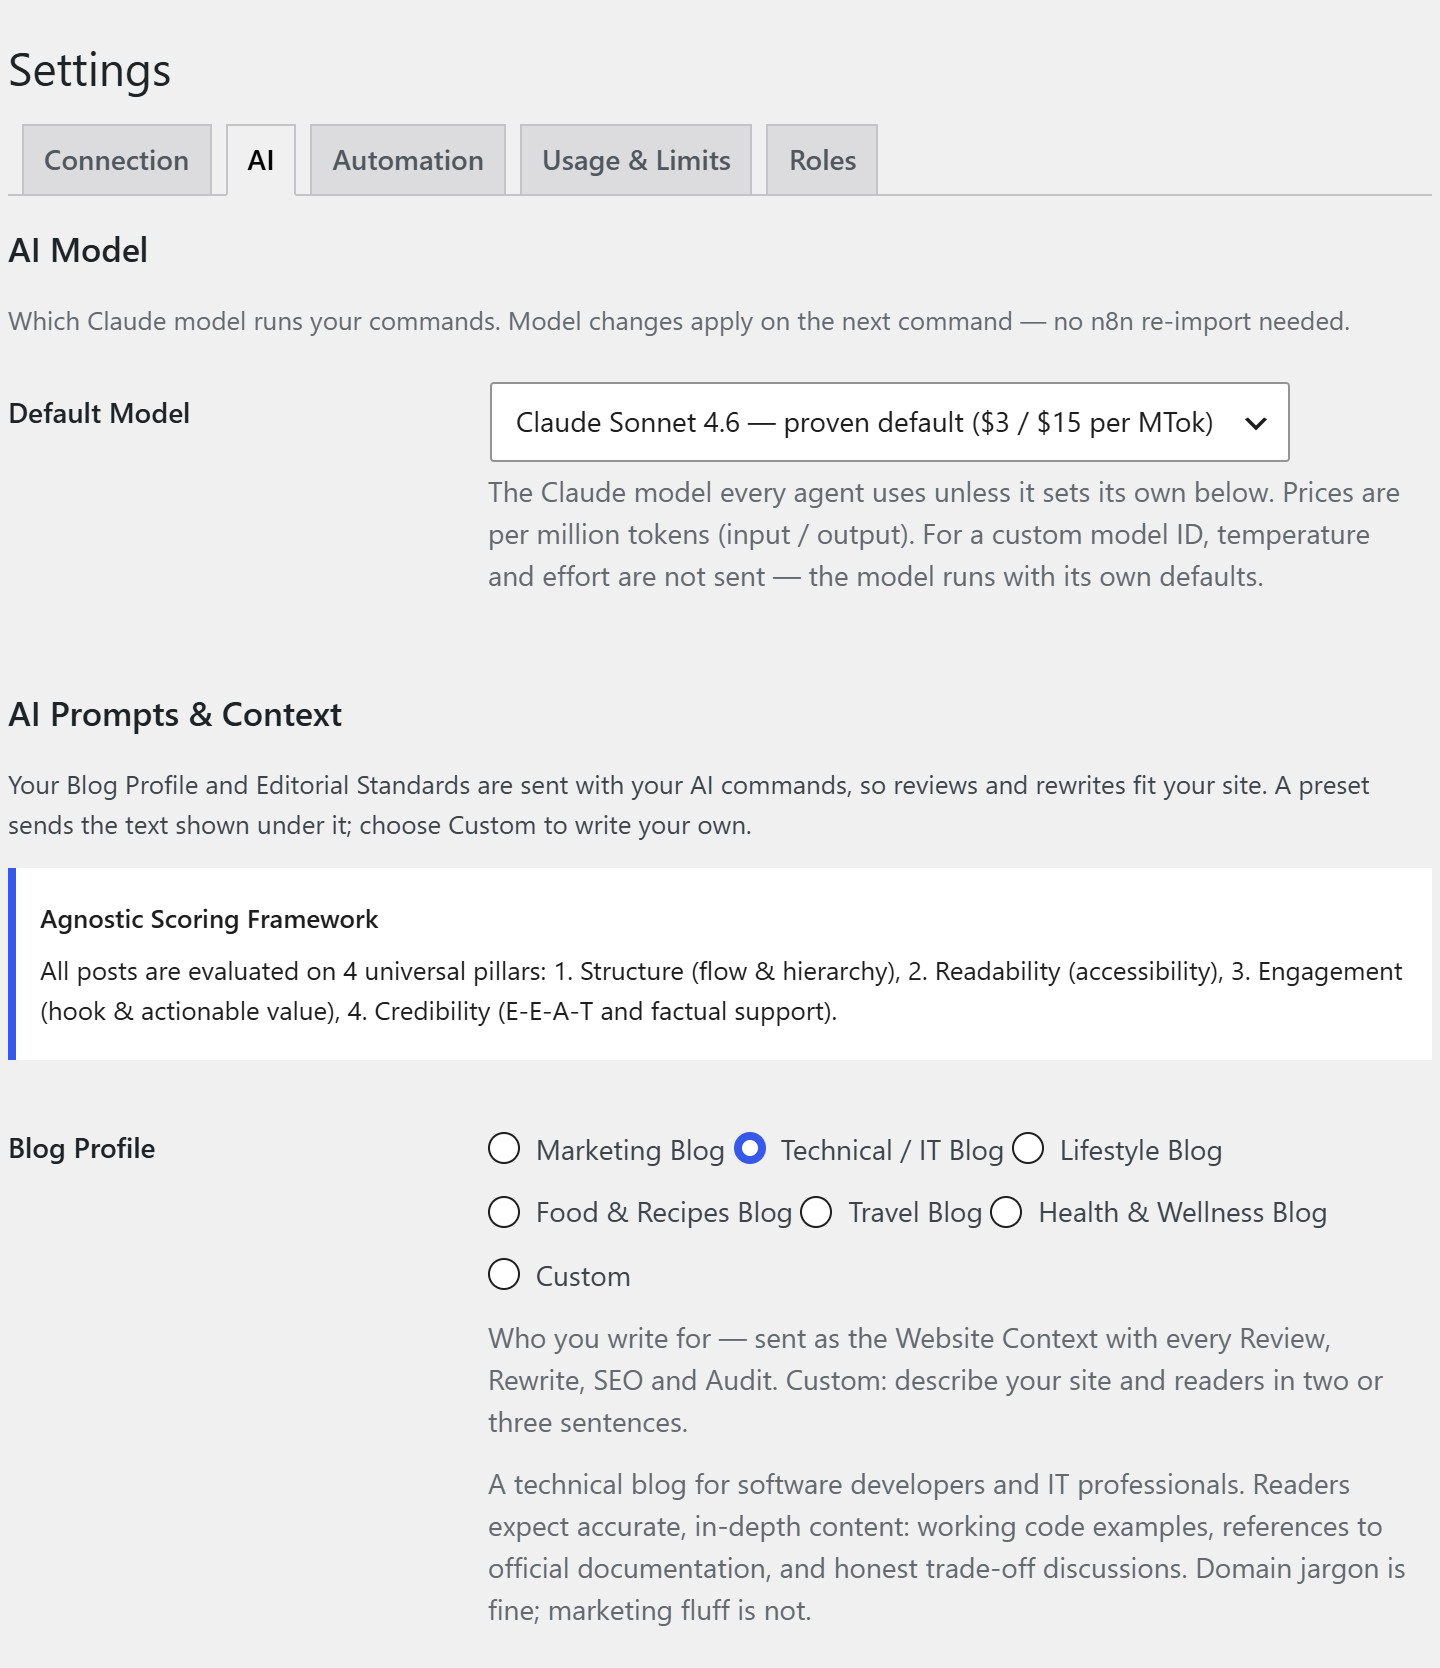
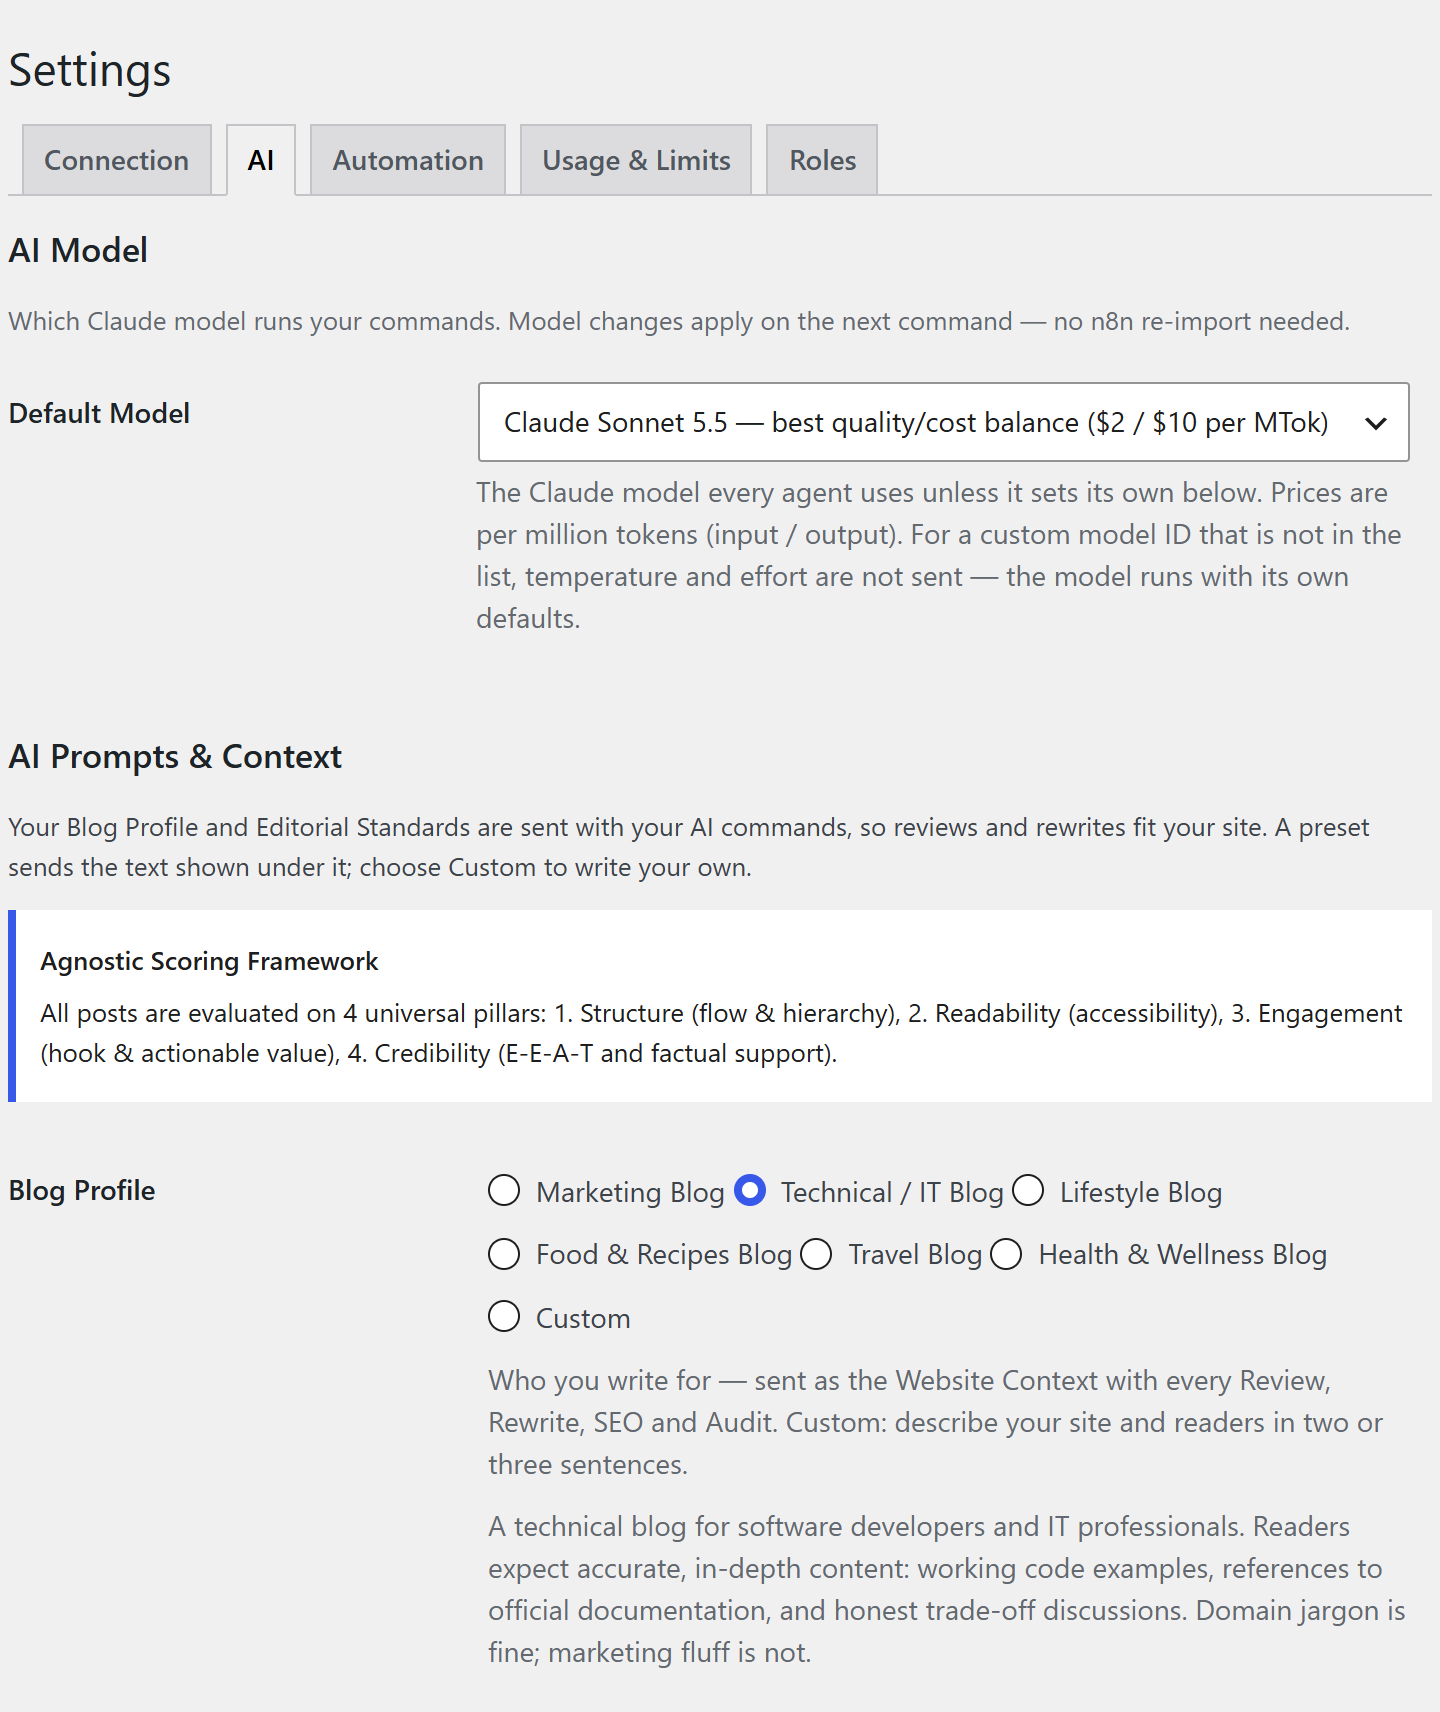
fix(features): the AI capture shows the default model, Claude Sonnet 5.5
Plan 101's last site task: a fresh feature-ai capture from the showcase on
the licensed Pro build (Blog Profile Technical / IT, 720 px crop at 2x,
PNG + WebP under 250 KB), with the model label whole (plugin bug 116), and
an alt that names the default model shown.

diff --git a/features.md b/features.md
@@ -86,7 +86,7 @@ Your plan, and the n8n webhook address and token, which live on the n8n Workflow
 
 The **Default Model** every agent uses, and your **Blog Profile** and **Editorial Standards**: a preset, or your own text under Custom, sent with your commands so reviews and rewrites fit your site. A table shows what each agent sends; a change applies on the next command, with no n8n re-import.
 
-{% include screenshot.html src="feature-ai" width="1440" height="1668" alt="Settings, AI tab: AI Model with the Default Model Claude Sonnet 4.6; AI Prompts & Context with the Agnostic Scoring Framework note and the Blog Profile set to Technical / IT Blog, its preset text shown below." caption="Settings, AI: the model and the Blog Profile. Demo site." %}
+{% include screenshot.html src="feature-ai" width="1440" height="1712" alt="Settings, AI tab: AI Model with the Default Model Claude Sonnet 5.5, best quality/cost balance at $2 / $10 per million tokens; AI Prompts & Context with the Agnostic Scoring Framework note and the Blog Profile set to Technical / IT Blog, its preset text shown below." caption="Settings, AI: the model and the Blog Profile. Demo site." %}
 
 ### Agent-Specific Overrides {{ pro }} {#agent-specific-overrides}
 
